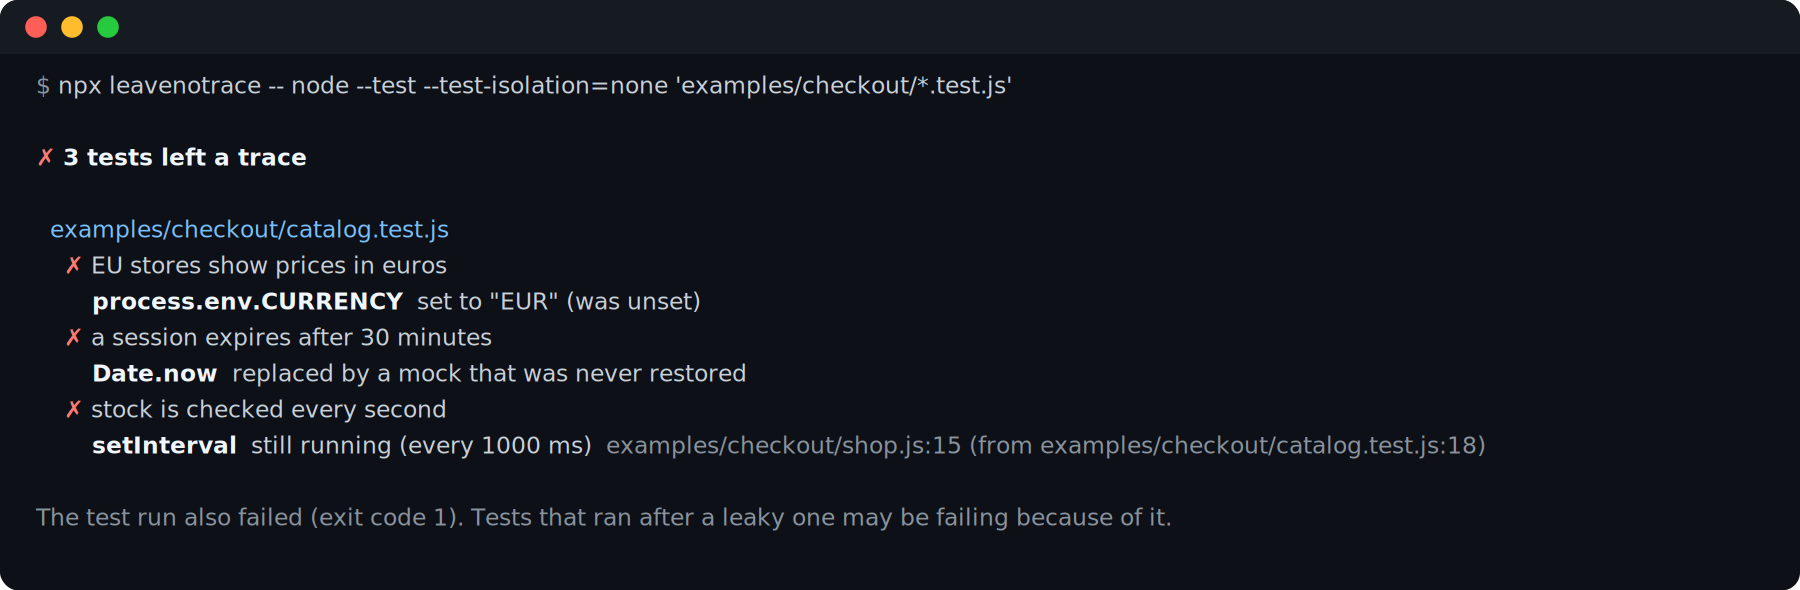
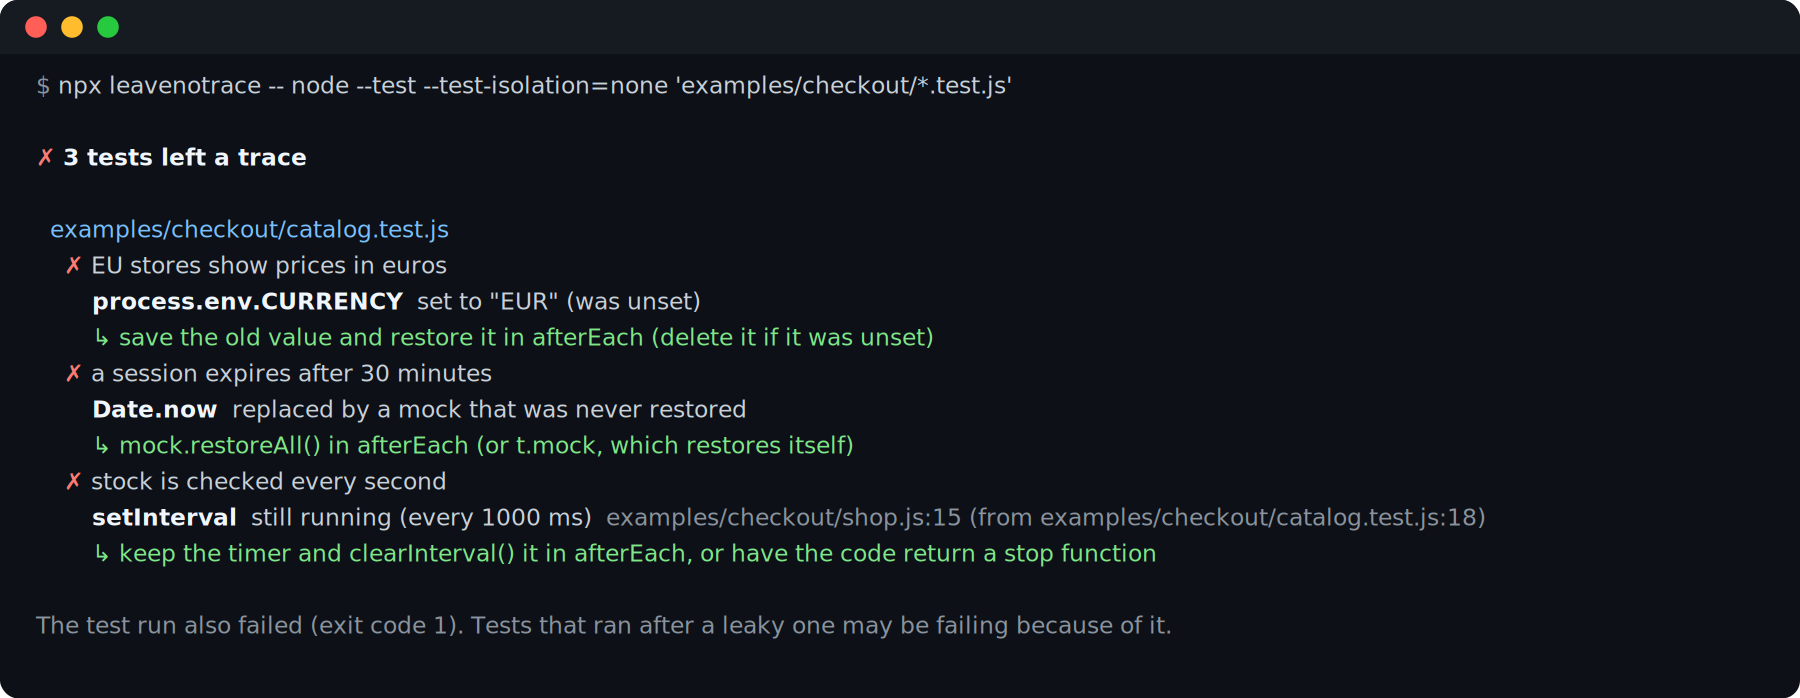
Runner-specific fix hints for every trace (error message, warn output, CLI summary, JSON report)

diff --git a/test/unit.test.js b/test/unit.test.js
@@ -74,3 +74,22 @@ test('userSite skips node internals and node_modules; direct mode requires a use
   assert.equal(core.userSite(stack, true), null);
   assert.equal(core.userSite(['Error', `    at g (${process.cwd()}/lib/app.js:7:1)`].join('\n'), true), 'lib/app.js:7');
 });
+
+test('hint(): a runner-specific fix for each kind of trace, none for the unknown', () => {
+  const h = (label, what, runner) => core.hint({ label, what }, runner);
+  assert.match(h('process.env.TZ', 'set to "UTC" (was unset)', 'vitest'), /vi\.stubEnv/);
+  assert.match(h('process.env.TZ', 'set to "UTC" (was unset)', 'jest'), /restore it in afterEach/);
+  assert.match(h('Date.now', 'replaced by a mock that was never restored', 'jest'), /restoreMocks: true/);
+  assert.match(h('Date.now', 'replaced by a mock that was never restored', 'node'), /mock\.restoreAll/);
+  assert.match(h('fs.readFile', 'replaced by a sinon stub (missing restore()?)', 'mocha'), /sinon\.restore/);
+  assert.match(h('fake timers', 'still installed', 'vitest'), /useRealTimers/);
+  assert.match(h('setInterval', 'still running (every 5 ms)'), /clearInterval/);
+  assert.match(h('Array.prototype.last', 'added (a function)'), /prototypes/);
+  assert.match(h('globalThis.cache', 'added (a Map)', 'node'), /delete globalThis\.cache/);
+  assert.equal(h('something.else', 'odd'), undefined);
+  const lines = core.hints([
+    { label: 'setInterval', what: 'still running' }, { label: 'setInterval', what: 'still running' },
+    { label: 'something.else', what: 'odd' },
+  ]);
+  assert.equal(lines.split('\n').length, 1, 'duplicate hints are merged, unknown ones skipped');
+});

diff --git a/src/cli.js b/src/cli.js
@@ -126,6 +126,7 @@ export async function main(argv, { out = process.stdout, err = process.stderr, c
       const width = Math.min(30, Math.max(...r.findings.map((f) => f.label.length)));
       for (const f of r.findings) {
         out.write(`        ${c('bold', f.label.padEnd(width))}  ${f.what}${f.site ? c('gray', `  ${f.site}`) : ''}\n`);
+        if (f.hint) out.write(`        ${c('green', `↳ ${f.hint}`)}\n`);
       }
     }
   }

diff --git a/src/vitest.js b/src/vitest.js
@@ -2,6 +2,7 @@
 // Setup-file hooks run first before a test and last after it (sequence.hooks = 'stack').
 import { beforeEach, afterEach } from 'vitest';
 import core from './core.cjs';
+core.setRunner('vitest');
 
 beforeEach(() => { core.start(globalThis); });
 afterEach((ctx) => {

diff --git a/README.md b/README.md
@@ -25,9 +25,12 @@ leavenotrace catches the leak where it happens. Before each test it takes a snap
 FAIL  catalog.test.js > stock is checked every second
 LeftATrace: this test left a trace:
   setInterval  still running (every 1000 ms), created at shop.js:15 (from catalog.test.js:18)
+
+How to fix:
+  setInterval: keep the timer and clearInterval() it in afterEach, or have the code return a stop function
 ```
 
-No victim test needed, no bisection, no re-runs.
+No victim test needed, no bisection, no re-runs. Every trace comes with a fix for your runner: `vi.restoreAllMocks()` for vitest, `restoreMocks: true` for jest, `mock.restoreAll()` for node:test, `vi.stubEnv()` instead of assigning `process.env`, and so on.
 
 ## Quick start
 
@@ -72,7 +75,7 @@ Modes, set with the `LEAVENOTRACE` environment variable:
 | `warn` | Print the traces to stderr, keep the test results. A gentle way to start on a big suite. |
 | `quiet` | Only write the report file. |
 
-`LEAVENOTRACE_REPORT=traces.jsonl` also appends every finding as JSON lines (test, file, findings), for CI annotations or your own tooling.
+`LEAVENOTRACE_REPORT=traces.jsonl` also appends every finding as JSON lines (test, file, findings with label, what, site and hint), for CI annotations or your own tooling.
 
 ## What counts as a trace
 
@@ -140,7 +143,7 @@ The runners' own globals (vitest, jest, mocha, node:test internals, coverage cou
 
 - [ ] jsdom / happy-dom: DOM nodes left in `document.body`, `localStorage`, cookies, `window` listeners
 - [ ] Unhandled promise rejections and still-pending promises created by a test
-- [ ] `--fix` hints: the cleanup line to add (`vi.unstubAllEnvs()`, `clearInterval(...)`, `mock.restore()`)
+- [x] Fix hints for each trace, specific to the runner
 - [ ] A GitHub Action that annotates the leaky test lines in a PR
 
 ## See also

diff --git a/CHANGELOG.md b/CHANGELOG.md
@@ -9,4 +9,5 @@ First release.
 - Tracks timers, servers, sockets, child processes and `fs.watch` back to the line that created them (and the test line that called it).
 - Leaked handles are `unref()`ed once reported, so a leaky suite no longer hangs `node --test`, mocha or jest.
 - Adapters for vitest, jest, mocha and node:test; modes `fail` / `warn` / `quiet`; JSON-lines report; ignore list.
+- A fix hint for every trace, specific to the runner (`vi.restoreAllMocks()`, `restoreMocks: true`, `mock.restoreAll()`, `vi.stubEnv()`...).
 - CLI: `npx leavenotrace -- <test command>` prints a per-file summary.
